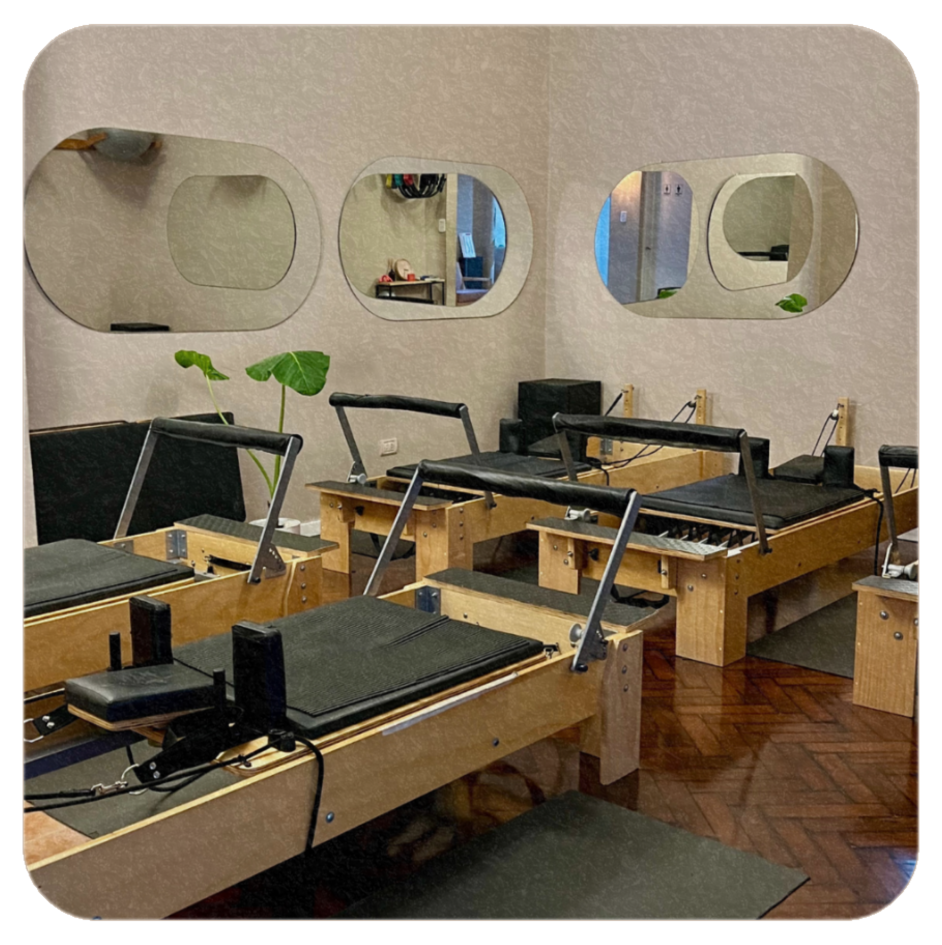
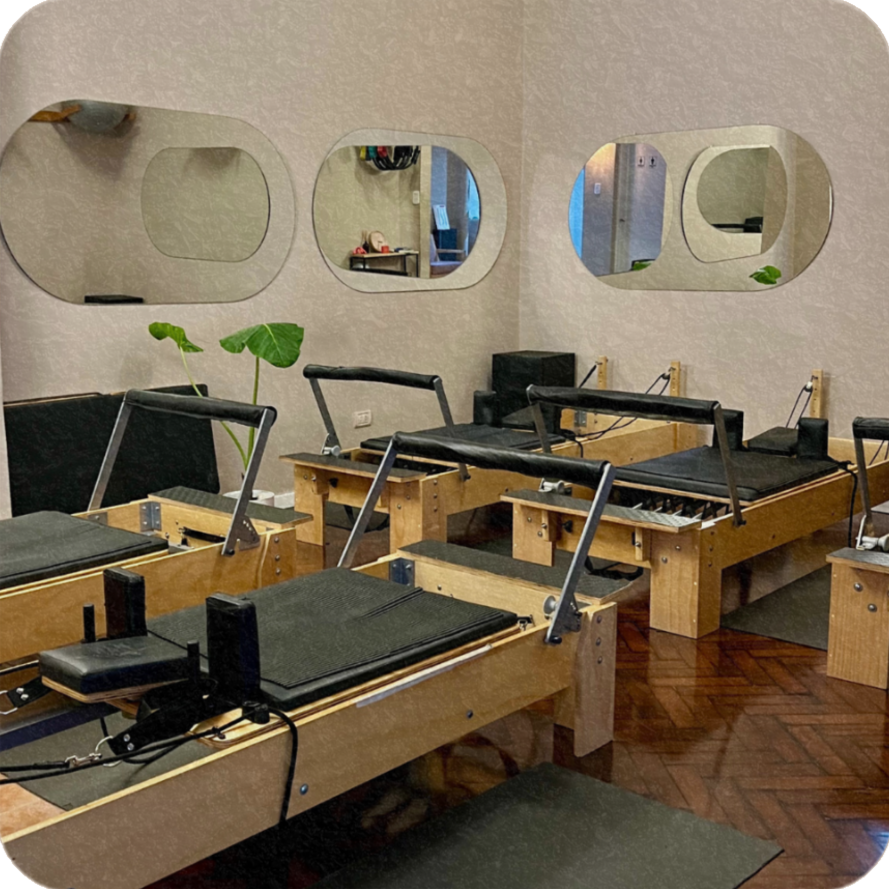
Fix header mobile

diff --git a/src/components/FullWithScreenContentBlock/styles.ts b/src/components/FullWithScreenContentBlock/styles.ts
@@ -31,7 +31,7 @@ export const HeroSection = styled.section<HeroSectionProps>`
   width: 95%; /* antes tenías 95%, ahora 100% */
   height: 80vh; /* más común usar 100vh para un hero */
   background-image: ${({ backgroundImage }) => `url(${backgroundImage})`};
-  background-size: 110%;
+  background-size: cover;
   background-position: center;
   background-repeat: no-repeat;
   overflow: hidden;
@@ -39,13 +39,27 @@ export const HeroSection = styled.section<HeroSectionProps>`
   padding: 0;
   border-radius: 40px;
 `;
+export const StyledContent = styled.div`
+  display: flex;
+  align-items: flex-start;
+  justify-content: space-around;
+  flex-direction: column;
+  height: 80vh;
+  @media (max-width: 768px) {
+    padding: 2rem 0;
+  }
+`;
 
 export const HeroContent = styled.div`
   max-width: 100%;
   margin: 0 auto;
+  // height: 100%;
   height: 100%;
   padding: 0 5rem;
   background: linear-gradient(to right, #00000080 0%, rgba(51, 51, 51, 0) 100%);
+  @media (max-width: 768px) {
+    padding: 0 2rem;
+  }
 `;
 
 export const TextHighlight = styled.h2`
@@ -54,6 +68,9 @@ export const TextHighlight = styled.h2`
   font-weight: bold;
   margin-bottom: 1rem;
   text-decoration: underline;
+  @media (max-width: 768px) {
+    font-size: 1.5rem;
+  }
 `;
 
 export const MainHeading = styled.h1`
@@ -64,7 +81,7 @@ export const MainHeading = styled.h1`
   margin-bottom: 2rem;
 
   @media (max-width: 768px) {
-    font-size: 3rem;
+    font-size: 1rem;
   }
 `;
 

diff --git a/src/components/FullWithScreenContentBlock/index.tsx b/src/components/FullWithScreenContentBlock/index.tsx
@@ -10,6 +10,7 @@ import {
   HeroContent,
   MainHeading,
   ButtonContainer,
+  StyledContent,
 } from "./styles";
 import { redirectWhatsApp } from "../../common/utils/ContactsRedirect";
 
@@ -38,15 +39,8 @@ const FullWidthContentBlock = ({
               }}
             >
               <Fade direction="left" triggerOnce>
-                <div
-                  style={{
-                    display: "flex",
-                    alignItems: "start",
-                    justifyContent: "space-around",
-                    flexDirection: "column",
-                    height: "50vh",
-                  }}
-                >
+                <StyledContent>
+                  {" "}
                   <TextHighlight>{title}</TextHighlight>
                   <MainHeading>{content}</MainHeading>
                   <ButtonContainer>
@@ -56,7 +50,7 @@ const FullWidthContentBlock = ({
                       </Button>
                     ))}
                   </ButtonContainer>
-                </div>
+                </StyledContent>
               </Fade>
             </Col>
           </Row>

diff --git a/src/common/Button/styles.ts b/src/common/Button/styles.ts
@@ -10,15 +10,18 @@ export const StyledButton = styled("button")<{ color?: string }>`
   border-radius: 4px;
   padding: 13px 10px;
   cursor: pointer;
-  max-width: 250px;
   transition: all 0.3s ease-in-out;
   box-shadow: 0 16px 30px rgb(23 31 114 / 20%);
-
+  font-size: 1rem;
   &:hover,
   &:active,
   &:focus {
     color: #fff;
     border: 1px solid rgb(147, 115, 77);
     background-color: rgb(147, 115, 77);
+  }
+  @media (max-width: 768px) {
+    font-size: 0.7rem;
+    padding: 13px 1rem;
   }
 `;
